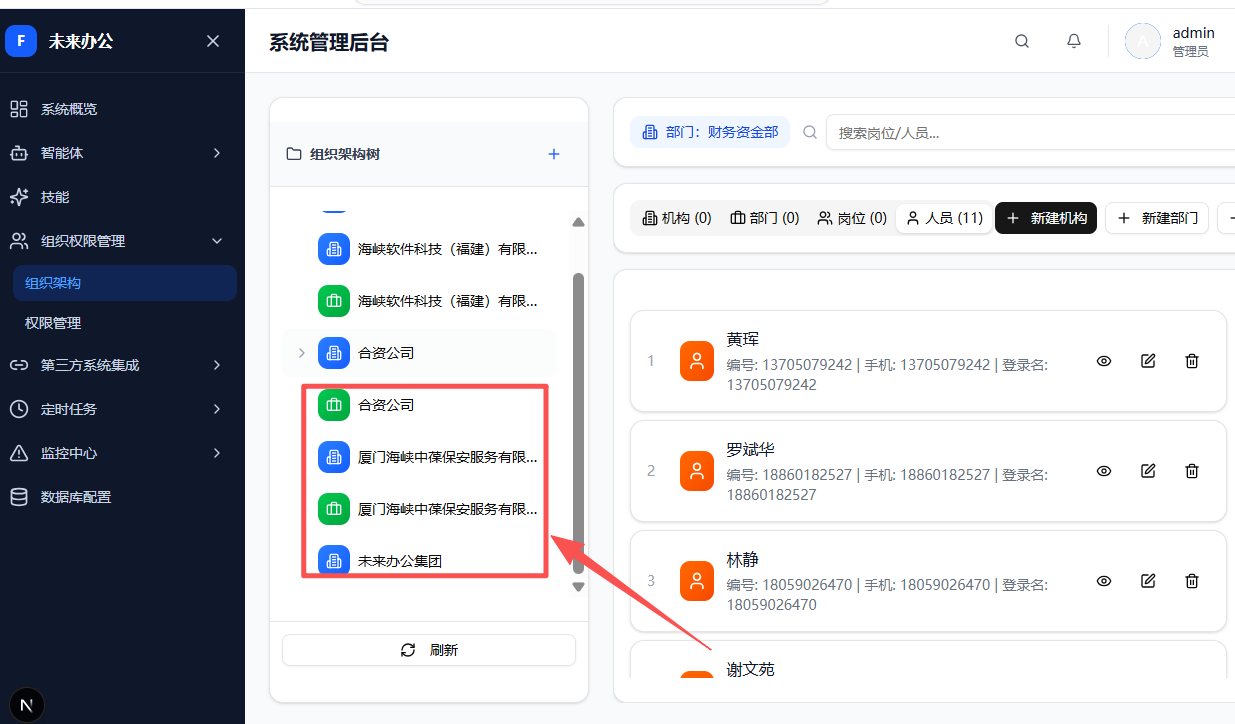
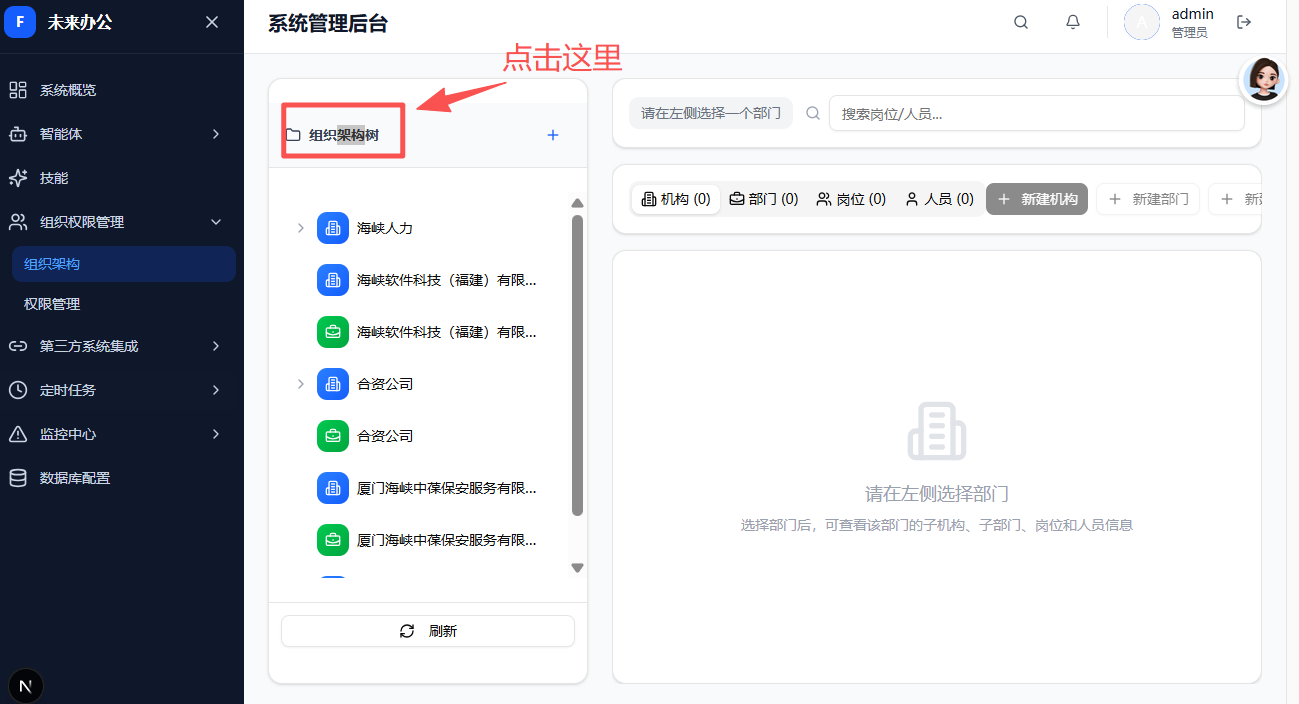
feat: 优化组织架构管理页面的节点编辑删除功能
- 优化选中节点的显示样式，更加直观明显
- 添加节点类型图标（机构蓝色/部门绿色）
- 增强编辑和删除按钮的可见性
- 修复"新建机构"按钮的禁用逻辑，允许创建顶层机构
- 优化未选中节点时的提示信息

diff --git a/src/app/admin/organization/structure/page.tsx b/src/app/admin/organization/structure/page.tsx
@@ -662,17 +662,116 @@ export default function OrganizationStructurePage() {
         {/* 顶部搜索栏 */}
         <Card className="p-4">
           <div className="flex gap-3 items-center">
-            {/* 当前选中节点提示 */}
+            {/* 当前选中节点提示 - 增强样式，更明显 */}
             {selectedNode ? (
-              <div className="flex items-center gap-2 px-3 py-1.5 bg-blue-50 rounded-lg text-blue-700">
-                <Building2 className="w-4 h-4" />
-                <span className="text-sm font-medium">
-                  {selectedNode.type === 1 ? '机构' : '部门'}：{selectedNodeName}
-                </span>
+              <div className="flex items-center justify-between flex-1 px-4 py-2 bg-gradient-to-r from-blue-50 to-indigo-50 rounded-lg border border-blue-200 shadow-sm">
+                <div className="flex items-center gap-3">
+                  {/* 节点类型图标 */}
+                  <div className={`w-10 h-10 rounded-lg flex items-center justify-center ${
+                    selectedNode.type === 1 
+                      ? 'bg-gradient-to-br from-blue-500 to-blue-600' 
+                      : 'bg-gradient-to-br from-green-500 to-green-600'
+                  }`}>
+                    {selectedNode.type === 1 ? (
+                      <Building2 className="w-5 h-5 text-white" />
+                    ) : (
+                      <BriefcaseBusiness className="w-5 h-5 text-white" />
+                    )}
+                  </div>
+                  
+                  {/* 节点信息 */}
+                  <div>
+                    <div className="flex items-center gap-2">
+                      <span className={`px-2 py-0.5 rounded text-xs font-medium ${
+                        selectedNode.type === 1 
+                          ? 'bg-blue-100 text-blue-800' 
+                          : 'bg-green-100 text-green-800'
+                      }`}>
+                        {selectedNode.type === 1 ? '机构' : '部门'}
+                      </span>
+                      <span className="text-base font-semibold text-gray-900">
+                        {selectedNodeName}
+                      </span>
+                    </div>
+                    {selectedNode.parentId && (
+                      <p className="text-xs text-gray-500 mt-0.5">
+                        父级ID: {selectedNode.parentId}
+                      </p>
+                    )}
+                  </div>
+                </div>
+
+                {/* 操作按钮组 - 更明显 */}
+                <div className="flex items-center gap-2">
+                  <Button
+                    variant="default"
+                    size="sm"
+                    onClick={() => {
+                      // 将 OrgTreeNode 转换为 OrgElement 格式
+                      const element: OrgElement = {
+                        fd_id: selectedNode.id,
+                        fd_org_type: selectedNode.type,
+                        fd_name: selectedNode.name,
+                        fd_order: 0,
+                        fd_is_available: true,
+                        fd_is_business: true,
+                        fd_persons_number: selectedNode.personCount || 0,
+                        fd_parentid: selectedNode.parentId || undefined,
+                        fd_parentorgid: selectedNode.parentId || undefined,
+                        // 添加必需的属性
+                        fd_create_time: new Date(),
+                        fd_alter_time: new Date(),
+                        fd_is_external: false,
+                        fd_is_abandon: false,
+                      };
+                      handleEdit(element, selectedNode.type === 1 ? 'org' : 'dept');
+                    }}
+                    className="bg-blue-600 hover:bg-blue-700 text-white shadow-sm"
+                    title="编辑当前机构/部门"
+                  >
+                    <Edit className="w-4 h-4 mr-1" />
+                    编辑
+                  </Button>
+                  <Button
+                    variant="destructive"
+                    size="sm"
+                    onClick={() => {
+                      // 将 OrgTreeNode 转换为 OrgElement 格式
+                      const element: OrgElement = {
+                        fd_id: selectedNode.id,
+                        fd_org_type: selectedNode.type,
+                        fd_name: selectedNode.name,
+                        fd_order: 0,
+                        fd_is_available: true,
+                        fd_is_business: true,
+                        fd_persons_number: selectedNode.personCount || 0,
+                        fd_parentid: selectedNode.parentId || undefined,
+                        fd_parentorgid: selectedNode.parentId || undefined,
+                        // 添加必需的属性
+                        fd_create_time: new Date(),
+                        fd_alter_time: new Date(),
+                        fd_is_external: false,
+                        fd_is_abandon: false,
+                      };
+                      handleDelete(element, selectedNode.type === 1 ? 'org' : 'dept');
+                    }}
+                    className="shadow-sm"
+                    title="删除当前机构/部门"
+                  >
+                    <Trash2 className="w-4 h-4 mr-1" />
+                    删除
+                  </Button>
+                </div>
               </div>
             ) : (
-              <div className="flex items-center gap-2 px-3 py-1.5 bg-gray-100 rounded-lg text-gray-500">
-                <span className="text-sm">请在左侧选择一个部门</span>
+              <div className="flex items-center gap-2 px-4 py-2 bg-amber-50 border border-amber-200 rounded-lg">
+                <div className="w-8 h-8 rounded-lg bg-amber-100 flex items-center justify-center">
+                  <Folder className="w-4 h-4 text-amber-600" />
+                </div>
+                <div>
+                  <span className="text-sm font-medium text-amber-800">未选择节点</span>
+                  <p className="text-xs text-amber-600">点击左侧组织架构树选择节点，或直接新建机构</p>
+                </div>
               </div>
             )}
 
@@ -716,8 +815,8 @@ export default function OrganizationStructurePage() {
               <Button
                 size="sm"
                 onClick={() => handleCreate('organization')}
-                disabled={!selectedNode}
-                title={!selectedNode ? '请先选择一个部门' : '新建子机构'}
+                // 机构可以独立创建（顶层机构），不需要选中节点
+                title="新建顶层机构"
               >
                 <Plus className="w-4 h-4 mr-1" />
                 新建机构
